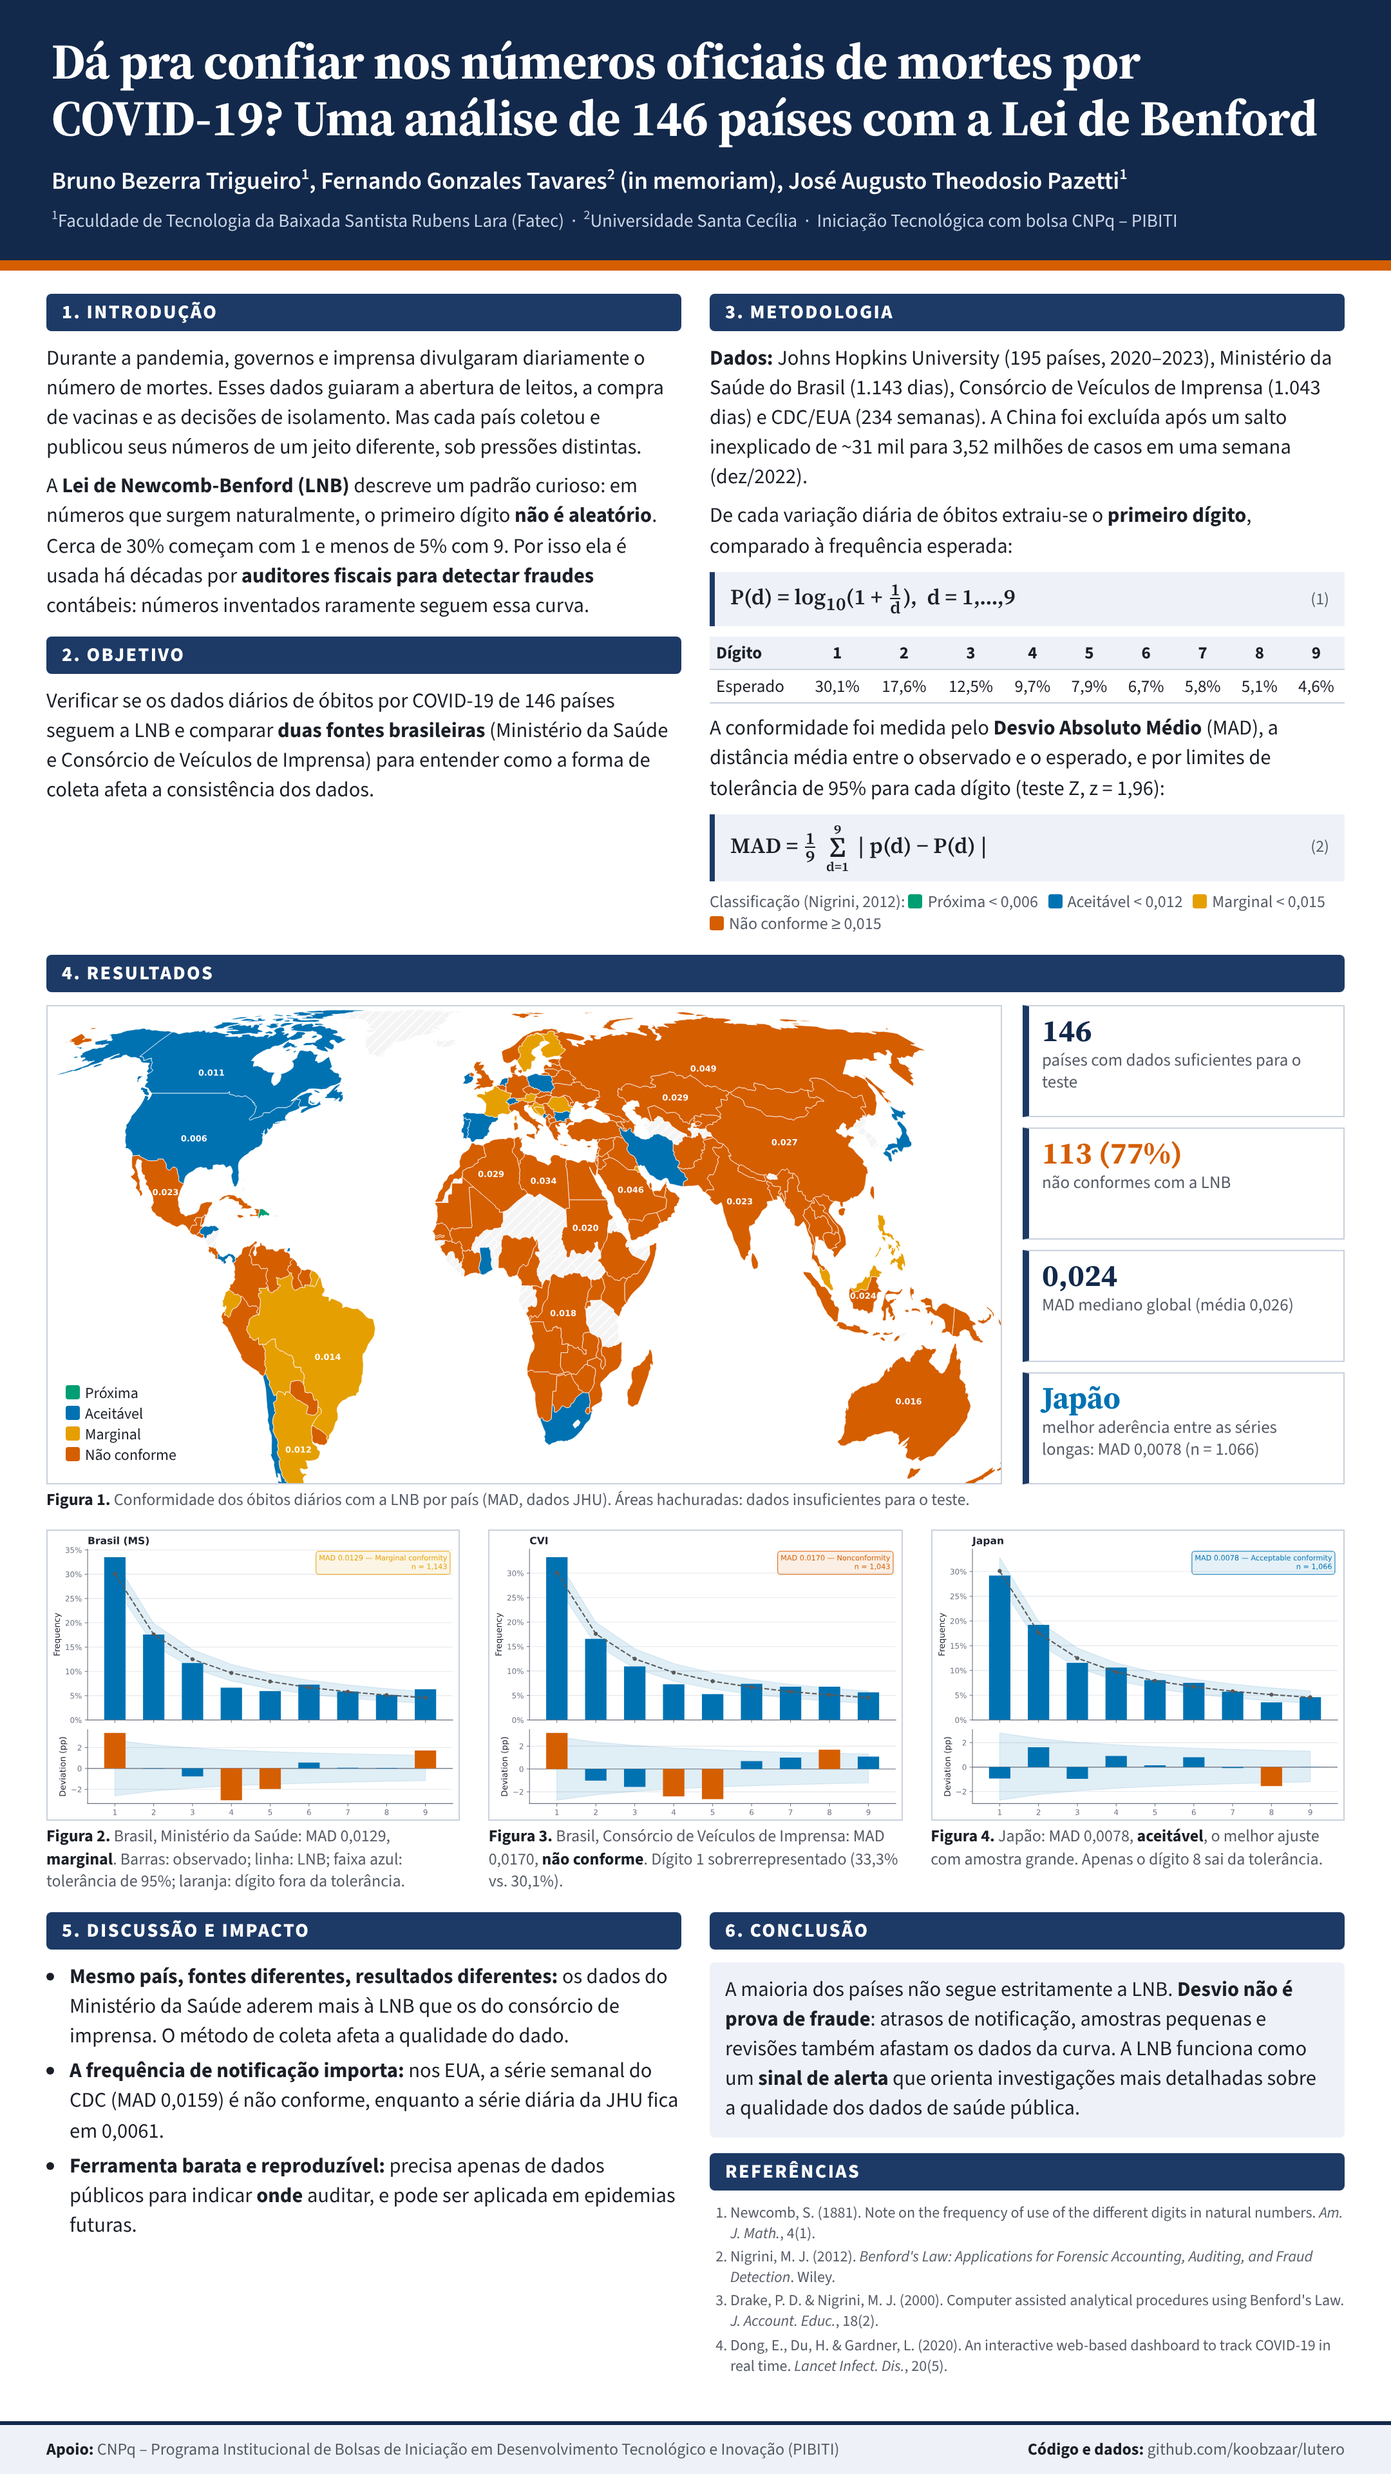
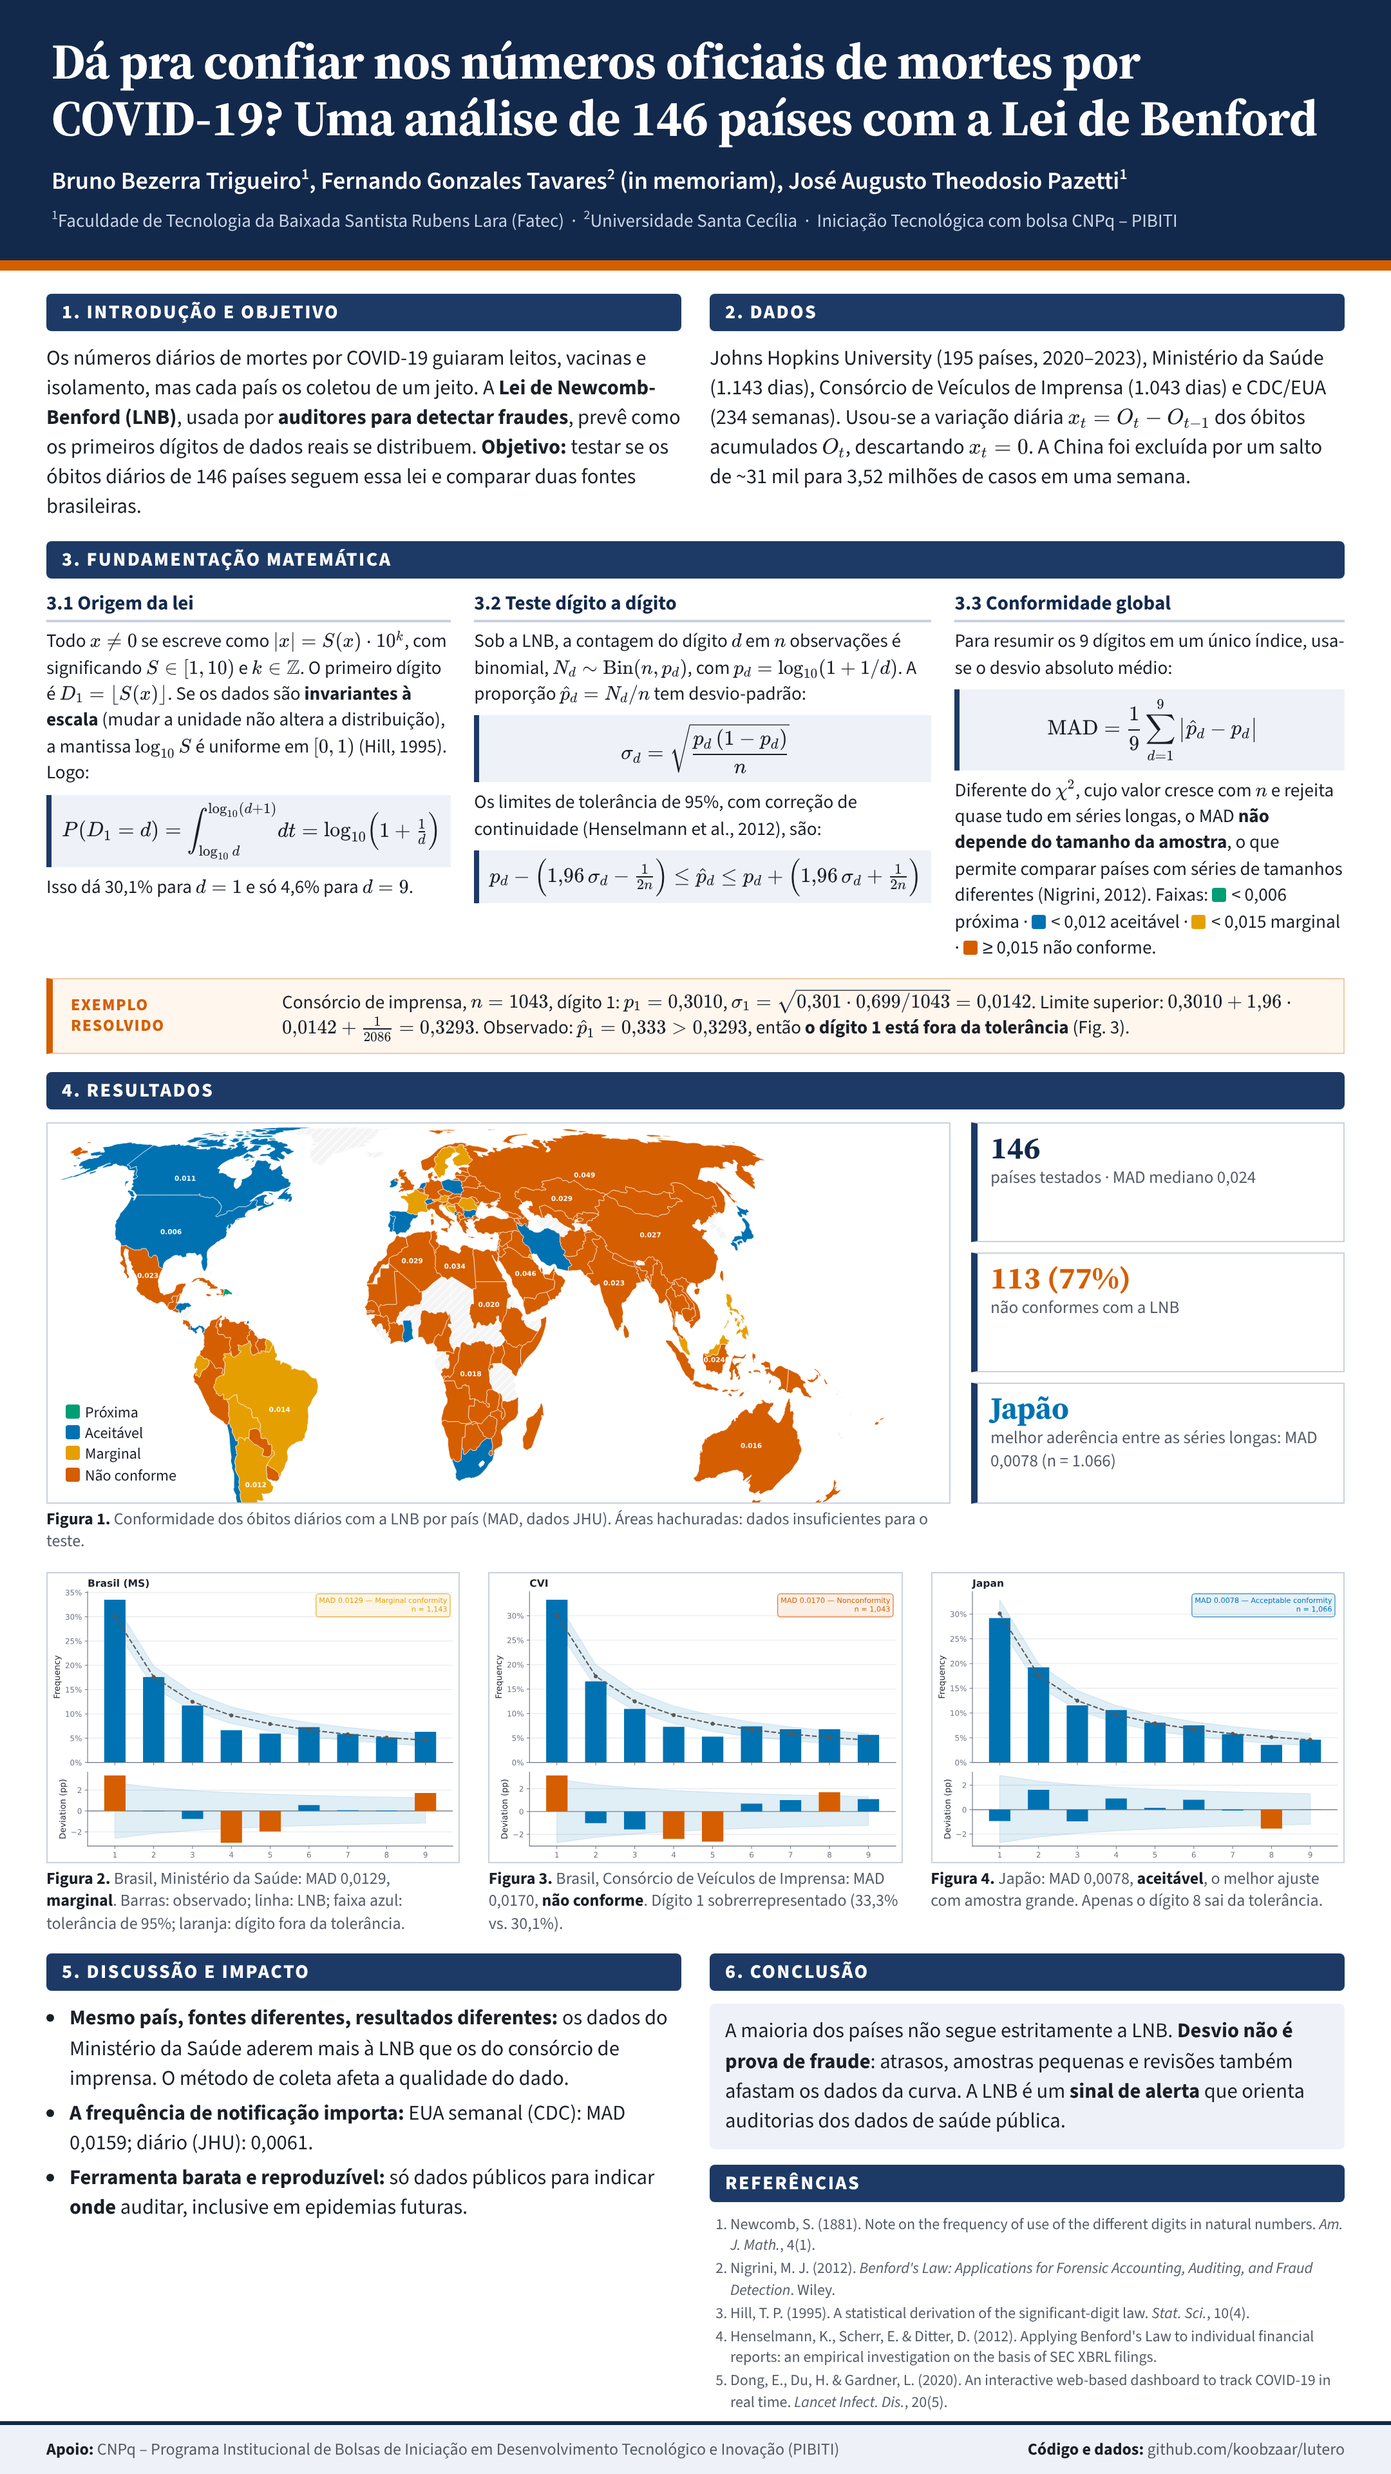
Expand the poster's mathematical section
Replace the expected-frequency table with the derivation of the law from
scale invariance, the binomial per-digit test with continuity-corrected
tolerance bounds, why MAD is preferred over chi-square, and a worked
example on the CVI series. Equations are typeset with KaTeX.

Claude-Session: https://claude.ai/code/session_01P6B3QUwM4QBXvnB9Ep3JZY

Changed region(s): [[0.031, 0.125, 0.9926, 0.9688], [0.3412, 0.6562, 0.3722, 0.6875]]

diff --git a/social/poster-9x16.html b/social/poster-9x16.html
@@ -4,6 +4,9 @@
 <meta charset="utf-8">
 <title>Lutero — pôster</title>
 <link href="https://fonts.googleapis.com/css2?family=Source+Sans+3:ital,wght@0,400;0,600;0,700;0,800;1,400&family=Source+Serif+4:opsz,wght@8..60,600;8..60,700&display=swap" rel="stylesheet">
+<link rel="stylesheet" href="https://cdn.jsdelivr.net/npm/katex@0.16.9/dist/katex.min.css">
+<script defer src="https://cdn.jsdelivr.net/npm/katex@0.16.9/dist/katex.min.js"></script>
+<script defer src="https://cdn.jsdelivr.net/npm/katex@0.16.9/dist/contrib/auto-render.min.js" onload="renderMathInElement(document.body,{delimiters:[{left:'$$',right:'$$',display:true},{left:'\\(',right:'\\)',display:false}]});document.body.dataset.ready=1"></script>
 <style>
   :root {
     --navy: #13294b;
@@ -58,16 +61,25 @@
   .cap b { color: var(--ink); }
   .sw { display: inline-block; width: 11px; height: 11px; border-radius: 2px; vertical-align: -1px; margin-right: 4px; }
 
+  .math3 { display: grid; grid-template-columns: repeat(3, 1fr); gap: 18px; }
+  .math3 h3 { font: 700 15.5px/1.2 "Source Sans 3"; color: var(--navy); margin-bottom: 5px; border-bottom: 2px solid var(--rule); padding-bottom: 4px; }
+  .math3 p { font-size: 14.6px; line-height: 1.4; }
+  .katex { font-size: 1.05em; }
+  .katex-display { margin: 6px 0; padding: 6px 8px; background: var(--tint); border-left: 4px solid var(--navy2); position: relative; }
+  .katex-display > .katex { font-size: 1.0em; }
+  .eqn { position: absolute; right: 8px; top: 50%; transform: translateY(-50%); font-size: 12.5px; color: var(--muted); }
+  .ex { margin-top: 12px; display: grid; grid-template-columns: 150px 1fr; gap: 14px; align-items: center; background: #fff6ee; border: 1px solid #f1c9a6; border-left: 5px solid var(--accent); padding: 8px 14px; font-size: 14.6px; line-height: 1.4; }
+  .ex .t { font: 800 13px/1.25 "Source Sans 3"; letter-spacing: .06em; text-transform: uppercase; color: var(--accent); }
   figure { margin: 0; }
   .fig { border: 1px solid var(--rule); background: #fff; overflow: hidden; position: relative; }
   .fig img { display: block; width: 100%; }
-  .mapbox { height: 372px; }
-  .mapbox img { position: absolute; width: 1010px; left: -162px; top: -50px; }
+  .mapbox { height: 296px; }
+  .mapbox img { position: absolute; width: 820px; left: -128px; top: -40px; }
   .maplegend { position: absolute; left: 8px; bottom: 8px; font-size: 12px; line-height: 1.35; background: rgba(255,255,255,.85); padding: 4px 6px; }
   .chartbox { height: 226px; }
   .chartbox img { position: absolute; width: 100%; left: 0; top: 0; }
 
-  .key { display: grid; grid-template-rows: repeat(4, 1fr); gap: 8px; height: 372px; }
+  .key { display: grid; grid-template-rows: repeat(3, 1fr); gap: 8px; height: 296px; }
   .key > div { border: 1px solid var(--rule); border-left: 5px solid var(--navy2); padding: 7px 10px; }
   .key .num { font: 700 24px/1 "Source Serif 4", serif; color: var(--navy); }
   .key .lbl { font-size: 13.5px; color: var(--muted); line-height: 1.3; margin-top: 2px; }
@@ -91,31 +103,47 @@
 <main>
   <div class="row c2">
     <section>
-      <h2>1. Introdução</h2>
-      <p>Durante a pandemia, governos e imprensa divulgaram diariamente o número de mortes. Esses dados guiaram a abertura de leitos, a compra de vacinas e as decisões de isolamento. Mas cada país coletou e publicou seus números de um jeito diferente, sob pressões distintas.</p>
-      <p>A <b>Lei de Newcomb-Benford (LNB)</b> descreve um padrão curioso: em números que surgem naturalmente, o primeiro dígito <b>não é aleatório</b>. Cerca de 30% começam com 1 e menos de 5% com 9. Por isso ela é usada há décadas por <b>auditores fiscais para detectar fraudes</b> contábeis: números inventados raramente seguem essa curva.</p>
-      <h2 style="margin-top:12px">2. Objetivo</h2>
-      <p>Verificar se os dados diários de óbitos por COVID-19 de 146 países seguem a LNB e comparar <b>duas fontes brasileiras</b> (Ministério da Saúde e Consórcio de Veículos de Imprensa) para entender como a forma de coleta afeta a consistência dos dados.</p>
+      <h2>1. Introdução e objetivo</h2>
+      <p>Os números diários de mortes por COVID-19 guiaram leitos, vacinas e isolamento, mas cada país os coletou de um jeito. A <b>Lei de Newcomb-Benford (LNB)</b>, usada por <b>auditores para detectar fraudes</b>, prevê como os primeiros dígitos de dados reais se distribuem. <b>Objetivo:</b> testar se os óbitos diários de 146 países seguem essa lei e comparar duas fontes brasileiras.</p>
     </section>
-
     <section>
-      <h2>3. Metodologia</h2>
-      <p><b>Dados:</b> Johns Hopkins University (195 países, 2020–2023), Ministério da Saúde do Brasil (1.143 dias), Consórcio de Veículos de Imprensa (1.043 dias) e CDC/EUA (234 semanas). A China foi excluída após um salto inexplicado de ~31 mil para 3,52 milhões de casos em uma semana (dez/2022).</p>
-      <p>De cada variação diária de óbitos extraiu-se o <b>primeiro dígito</b>, comparado à frequência esperada:</p>
-      <div class="eq"><span>P(d) = log<sub>10</sub>(1 + <span class="frac"><span>1</span><span>d</span></span>), &nbsp;d = 1,…,9</span><span class="n">(1)</span></div>
-      <table>
-        <tr><th>Dígito</th><th>1</th><th>2</th><th>3</th><th>4</th><th>5</th><th>6</th><th>7</th><th>8</th><th>9</th></tr>
-        <tr><td>Esperado</td><td>30,1%</td><td>17,6%</td><td>12,5%</td><td>9,7%</td><td>7,9%</td><td>6,7%</td><td>5,8%</td><td>5,1%</td><td>4,6%</td></tr>
-      </table>
-      <p style="margin-top:8px">A conformidade foi medida pelo <b>Desvio Absoluto Médio</b> (MAD), a distância média entre o observado e o esperado, e por limites de tolerância de 95% para cada dígito (teste Z, z = 1,96):</p>
-      <div class="eq"><span>MAD = <span class="frac"><span>1</span><span>9</span></span> <span class="sig"><small>9</small>Σ<small>d=1</small></span> | p(d) − P(d) |</span><span class="n">(2)</span></div>
-      <p class="cap">Classificação (Nigrini, 2012): <span class="sw" style="background:var(--close)"></span>Próxima &lt; 0,006 &nbsp; <span class="sw" style="background:var(--ok)"></span>Aceitável &lt; 0,012 &nbsp; <span class="sw" style="background:var(--marg)"></span>Marginal &lt; 0,015 &nbsp; <span class="sw" style="background:var(--bad)"></span>Não conforme ≥ 0,015</p>
+      <h2>2. Dados</h2>
+      <p>Johns Hopkins University (195 países, 2020–2023), Ministério da Saúde (1.143 dias), Consórcio de Veículos de Imprensa (1.043 dias) e CDC/EUA (234 semanas). Usou-se a variação diária \(x_t = O_t - O_{t-1}\) dos óbitos acumulados \(O_t\), descartando \(x_t = 0\). A China foi excluída por um salto de ~31 mil para 3,52 milhões de casos em uma semana.</p>
     </section>
   </div>
 
   <section>
+    <h2>3. Fundamentação matemática</h2>
+    <div class="math3">
+      <div>
+        <h3>3.1 Origem da lei</h3>
+        <p>Todo \(x \neq 0\) se escreve como \(|x| = S(x)\cdot 10^{k}\), com significando \(S \in [1,10)\) e \(k \in \mathbb{Z}\). O primeiro dígito é \(D_1 = \lfloor S(x) \rfloor\). Se os dados são <b>invariantes à escala</b> (mudar a unidade não altera a distribuição), a mantissa \(\log_{10} S\) é uniforme em \([0,1)\) (Hill, 1995). Logo:</p>
+        $$P(D_1 = d) = \int_{\log_{10} d}^{\log_{10}(d+1)} \! dt = \log_{10}\!\Big(1+\tfrac{1}{d}\Big)$$
+        <p>Isso dá 30,1% para \(d=1\) e só 4,6% para \(d=9\).</p>
+      </div>
+      <div>
+        <h3>3.2 Teste dígito a dígito</h3>
+        <p>Sob a LNB, a contagem do dígito \(d\) em \(n\) observações é binomial, \(N_d \sim \mathrm{Bin}(n, p_d)\), com \(p_d = \log_{10}(1+1/d)\). A proporção \(\hat p_d = N_d/n\) tem desvio-padrão:</p>
+        $$\sigma_d = \sqrt{\frac{p_d\,(1-p_d)}{n}}$$
+        <p>Os limites de tolerância de 95%, com correção de continuidade (Henselmann et al., 2012), são:</p>
+        $$p_d - \Big(1{,}96\,\sigma_d - \tfrac{1}{2n}\Big) \le \hat p_d \le p_d + \Big(1{,}96\,\sigma_d + \tfrac{1}{2n}\Big)$$
+      </div>
+      <div>
+        <h3>3.3 Conformidade global</h3>
+        <p>Para resumir os 9 dígitos em um único índice, usa-se o desvio absoluto médio:</p>
+        $$\mathrm{MAD} = \frac{1}{9}\sum_{d=1}^{9} \big|\hat p_d - p_d\big|$$
+        <p>Diferente do \(\chi^2\), cujo valor cresce com \(n\) e rejeita quase tudo em séries longas, o MAD <b>não depende do tamanho da amostra</b>, o que permite comparar países com séries de tamanhos diferentes (Nigrini, 2012). Faixas: <span class="sw" style="background:var(--close)"></span>&lt; 0,006 próxima · <span class="sw" style="background:var(--ok)"></span>&lt; 0,012 aceitável · <span class="sw" style="background:var(--marg)"></span>&lt; 0,015 marginal · <span class="sw" style="background:var(--bad)"></span>≥ 0,015 não conforme.</p>
+      </div>
+    </div>
+    <div class="ex">
+      <div class="t">Exemplo<br>resolvido</div>
+      <div>Consórcio de imprensa, \(n = 1043\), dígito 1: \(p_1 = 0{,}3010\), \(\sigma_1 = \sqrt{0{,}301 \cdot 0{,}699 / 1043} = 0{,}0142\). Limite superior: \(0{,}3010 + 1{,}96 \cdot 0{,}0142 + \tfrac{1}{2086} = 0{,}3293\). Observado: \(\hat p_1 = 0{,}333 > 0{,}3293\), então <b>o dígito 1 está fora da tolerância</b> (Fig. 3).</div>
+    </div>
+  </section>
+
+  <section>
     <h2>4. Resultados</h2>
-    <div class="row" style="grid-template-columns: 1fr 250px; gap: 16px;">
+    <div class="row" style="grid-template-columns: 1fr 290px; gap: 16px;">
       <figure>
         <div class="fig mapbox">
           <img src="../assets/world_map.svg" alt="">
@@ -124,9 +152,8 @@
         <figcaption class="cap"><b>Figura 1.</b> Conformidade dos óbitos diários com a LNB por país (MAD, dados JHU). Áreas hachuradas: dados insuficientes para o teste.</figcaption>
       </figure>
       <div class="key">
-        <div><div class="num">146</div><div class="lbl">países com dados suficientes para o teste</div></div>
+        <div><div class="num">146</div><div class="lbl">países testados · MAD mediano 0,024</div></div>
         <div><div class="num" style="color:var(--bad)">113 (77%)</div><div class="lbl">não conformes com a LNB</div></div>
-        <div><div class="num">0,024</div><div class="lbl">MAD mediano global (média 0,026)</div></div>
         <div><div class="num" style="color:var(--ok)">Japão</div><div class="lbl">melhor aderência entre as séries longas: MAD 0,0078 (n = 1.066)</div></div>
       </div>
     </div>
@@ -152,18 +179,19 @@
       <h2>5. Discussão e impacto</h2>
       <ul>
         <li><b>Mesmo país, fontes diferentes, resultados diferentes:</b> os dados do Ministério da Saúde aderem mais à LNB que os do consórcio de imprensa. O método de coleta afeta a qualidade do dado.</li>
-        <li><b>A frequência de notificação importa:</b> nos EUA, a série semanal do CDC (MAD 0,0159) é não conforme, enquanto a série diária da JHU fica em 0,0061.</li>
-        <li><b>Ferramenta barata e reproduzível:</b> precisa apenas de dados públicos para indicar <b>onde</b> auditar, e pode ser aplicada em epidemias futuras.</li>
+        <li><b>A frequência de notificação importa:</b> EUA semanal (CDC): MAD 0,0159; diário (JHU): 0,0061.</li>
+        <li><b>Ferramenta barata e reproduzível:</b> só dados públicos para indicar <b>onde</b> auditar, inclusive em epidemias futuras.</li>
       </ul>
     </section>
     <section>
       <h2>6. Conclusão</h2>
-      <div class="box">A maioria dos países não segue estritamente a LNB. <b>Desvio não é prova de fraude</b>: atrasos de notificação, amostras pequenas e revisões também afastam os dados da curva. A LNB funciona como um <b>sinal de alerta</b> que orienta investigações mais detalhadas sobre a qualidade dos dados de saúde pública.</div>
+      <div class="box">A maioria dos países não segue estritamente a LNB. <b>Desvio não é prova de fraude</b>: atrasos, amostras pequenas e revisões também afastam os dados da curva. A LNB é um <b>sinal de alerta</b> que orienta auditorias dos dados de saúde pública.</div>
       <h2 style="margin-top:12px">Referências</h2>
       <ol class="refs" style="padding-left:16px">
         <li>Newcomb, S. (1881). Note on the frequency of use of the different digits in natural numbers. <i>Am. J. Math.</i>, 4(1).</li>
         <li>Nigrini, M. J. (2012). <i>Benford's Law: Applications for Forensic Accounting, Auditing, and Fraud Detection</i>. Wiley.</li>
-        <li>Drake, P. D. &amp; Nigrini, M. J. (2000). Computer assisted analytical procedures using Benford's Law. <i>J. Account. Educ.</i>, 18(2).</li>
+        <li>Hill, T. P. (1995). A statistical derivation of the significant-digit law. <i>Stat. Sci.</i>, 10(4).</li>
+        <li>Henselmann, K., Scherr, E. &amp; Ditter, D. (2012). Applying Benford's Law to individual financial reports: an empirical investigation on the basis of SEC XBRL filings.</li>
         <li>Dong, E., Du, H. &amp; Gardner, L. (2020). An interactive web-based dashboard to track COVID-19 in real time. <i>Lancet Infect. Dis.</i>, 20(5).</li>
               </ol>
     </section>
